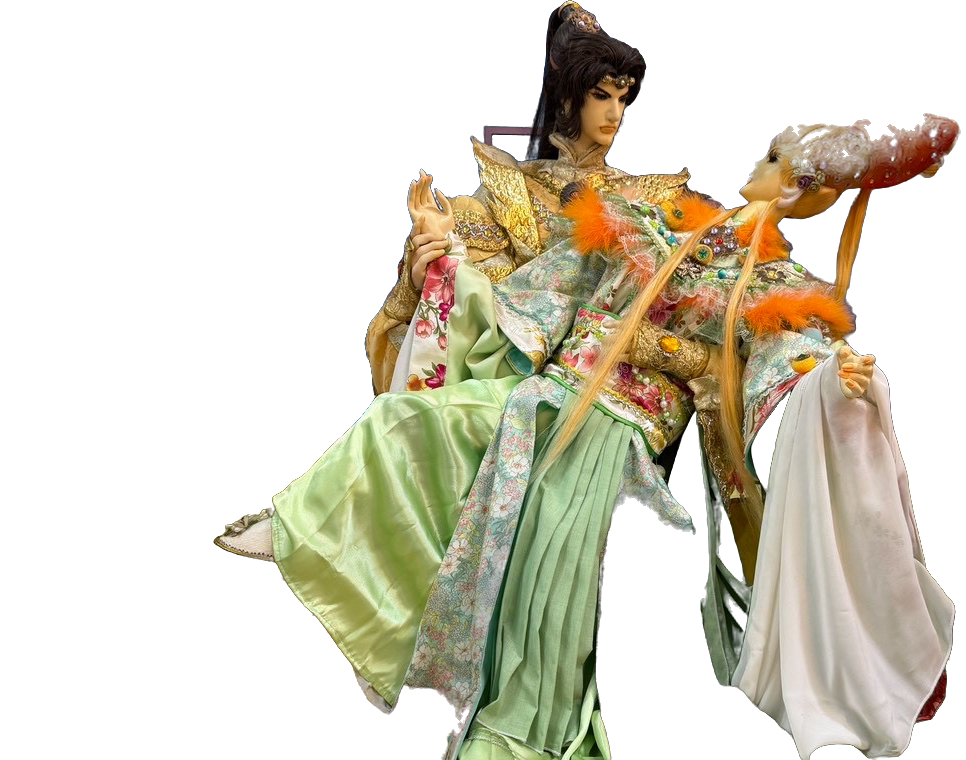
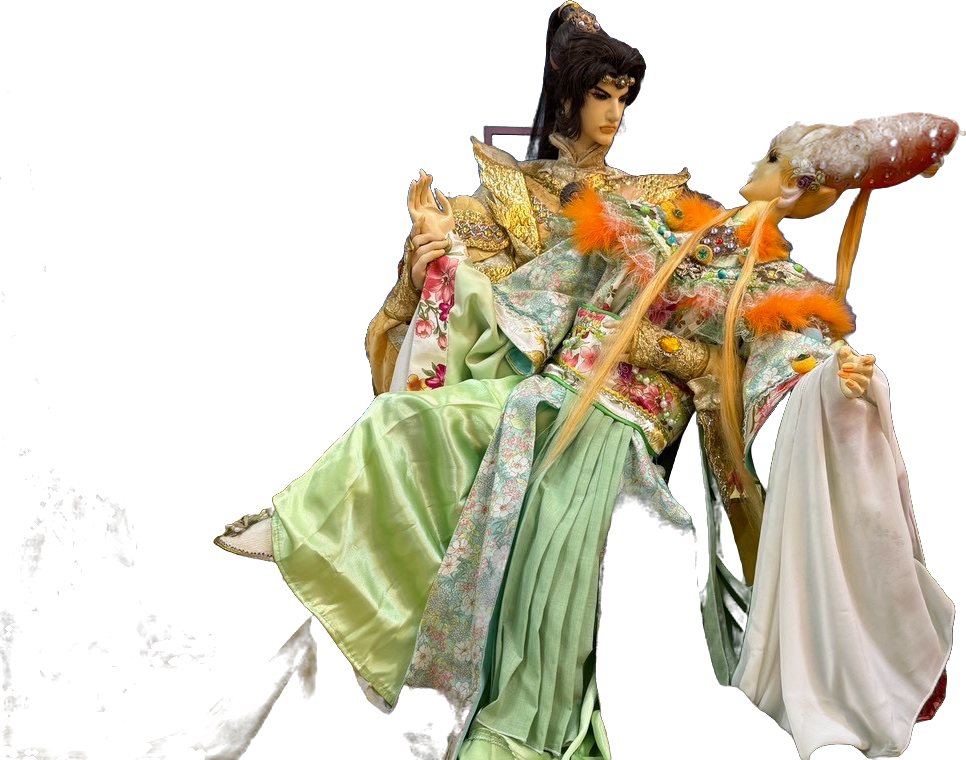
Return to flat puppet cutouts; remove one stray fragment beside Meng
Claude-Session: https://claude.ai/code/session_01D1vdwhGaZ3uYrHqVPJgMcJ

diff --git a/index.html b/index.html
@@ -138,8 +138,6 @@ const loader = new THREE.TextureLoader();
 let pending = 0;
 function tex(url) { pending++; const t = loader.load(url, () => { pending--; dirty = true; }, undefined, () => { pending--; }); t.encoding = THREE.sRGBEncoding; t.anisotropy = 4; return t; }
 function canvasTex(w, h, draw) { const c = document.createElement('canvas'); c.width = w; c.height = h; draw(c.getContext('2d'), w, h); const t = new THREE.CanvasTexture(c); t.encoding = THREE.sRGBEncoding; t.anisotropy = 4; return t; }
-function texL(url) { pending++; return loader.load(url, () => { pending--; dirty = true; }, undefined, () => { pending--; }); }
-const relief = f => ({ displacementMap: texL(f + '_d.png'), displacementScale: 0.13, normalMap: texL(f + '_n.png'), normalScale: new THREE.Vector2(0.9, 0.9) });
 const std = o => new THREE.MeshStandardMaterial(Object.assign({ roughness: 0.95, metalness: 0 }, o));
 function box(w, h, d, mat, x, y, z) { const m = new THREE.Mesh(new THREE.BoxGeometry(w, h, d), mat); m.position.set(x, y, z); scene.add(m); return m; }
 function plane(w, h, mat, x, y, z) { const m = new THREE.Mesh(new THREE.PlaneGeometry(w, h), mat); m.position.set(x, y, z); scene.add(m); return m; }
@@ -216,8 +214,8 @@ const plinthM = std({ color: 0x24292a });
 
 PUPPETS.forEach((p, i) => {
   const t = tex(p.f + '.png');
-  p.mat = std(Object.assign({ map: t, transparent: true, alphaTest: 0.4, side: THREE.DoubleSide }, relief(p.f)));
-  p.mesh = plane(1, 1, p.mat, p.x0, TOP + p.h / 2, p.z0); p.mesh.geometry = new THREE.PlaneGeometry(1, 1, 90, 110);
+  p.mat = std({ map: t, transparent: true, alphaTest: 0.4, side: THREE.DoubleSide });
+  p.mesh = plane(1, 1, p.mat, p.x0, TOP + p.h / 2, p.z0);
   p.aspect = 0.7; p.k = 1;
   const im = new Image(); im.onload = () => { p.aspect = im.naturalWidth / im.naturalHeight; dirty = true; }; im.src = p.f + '.png';
   p.card = plane(0.34, 0.095, std({ map: cardTex(p.name || '戲偶') }), p.x0, TOP + 0.06, p.z0 + 0.32); p.card.rotation.x = -0.5;
@@ -235,7 +233,7 @@ PUPPETS.forEach((p, i) => {
 // two flying puppets hung from the ceiling, as in the real hall
 const strM = new THREE.LineBasicMaterial({ color: 0x333333 });
 const FLY = [{ f: 'fly1', x: -1.9, y: 3.05, z: -2.4, w: 1.5, h: 1.07 }, { f: 'fly2', x: 2.5, y: 2.95, z: -2.2, w: 0.95, h: 0.88 }];
-FLY.forEach(f => { f.mat = std(Object.assign({ map: tex(f.f + '.png'), transparent: true, alphaTest: 0.4, side: THREE.DoubleSide }, relief(f.f))); f.mesh = plane(f.w, f.h, f.mat, f.x, f.y, f.z); f.mesh.geometry = new THREE.PlaneGeometry(f.w, f.h, 80, 60);
+FLY.forEach(f => { f.mat = std({ map: tex(f.f + '.png'), transparent: true, alphaTest: 0.4, side: THREE.DoubleSide }); f.mesh = plane(f.w, f.h, f.mat, f.x, f.y, f.z);
   const g = new THREE.BufferGeometry().setFromPoints([new THREE.Vector3(f.x, f.y + f.h / 2 - 0.05, f.z), new THREE.Vector3(f.x, RH, f.z)]); scene.add(new THREE.Line(g, strM));
   f.spot = new THREE.SpotLight(0xffe3b0, 0, 6, 0.42, 0.6, 1.2); f.spot.position.set(f.x, RH - 0.2, f.z + 2.0); f.spot.target.position.set(f.x, f.y, f.z); scene.add(f.spot); scene.add(f.spot.target); });
 
@@ -265,7 +263,7 @@ function update() {
   boardLamp.rotation.x = -0.9 * v.tg;
   darkPanel.material.opacity = v.tb; darkPanel.visible = v.tb > 0.01; banner.visible = v.tb < 0.985;
   acrM.opacity = 0.16 * v.ta; edgeM.opacity = 0.9 * v.ta;
-  const yaw = Math.atan2(camera.position.x, camera.position.z - TZ) * 0.42;
+  const yaw = Math.atan2(camera.position.x, camera.position.z - TZ) * 0.6;
   for (const p of PUPPETS) {
     const keep = p.slot !== undefined;
     const k = keep ? 1 : 1 - tr;                       // puppets taken off display shrink away
